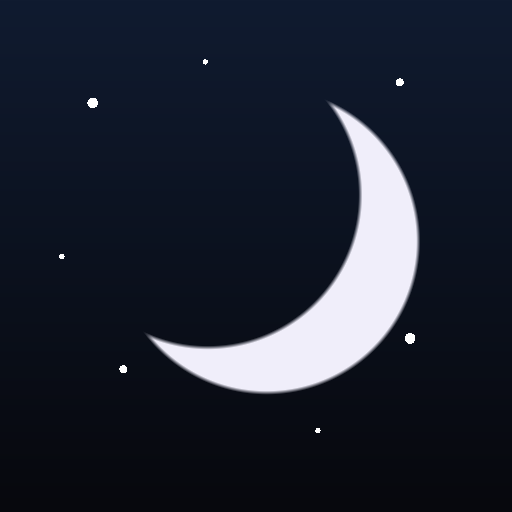
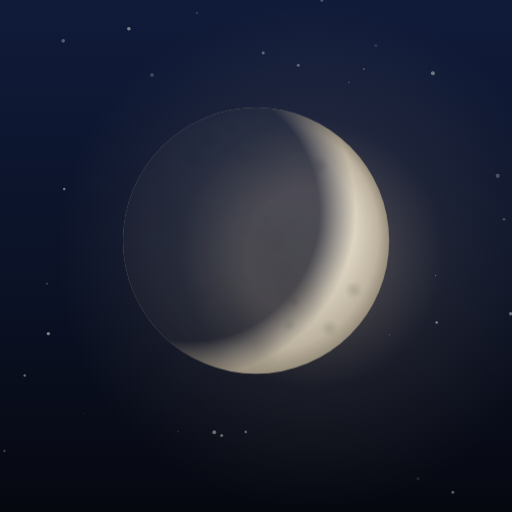
עיצוב לילה ריאליסטי: ירח אמיתי בשמיים, בטפט ובאייקונים; חיבור טלפון עמיד
- מחולל הטפט: גלקסיה שלווה — ירח סהר פוטוריאליסטי עם הילה חמה, כוכבים
  עדינים, שביל חלב מרומז, רכס הרים ומים עם נצנוץ ירח, טיפוגרפיה off-white
- ירח ריאליסטי משותף (drawRealMoon) גם בשמיים החיים ובאריח הירח
- פלטת לילה עמוקה ורגועה יותר; אייקונים מעומעמים בלילה
- אייקוני אפליקציה חדשים (192/512) עם הירח הריאליסטי

Changed region(s): [[0.2812, 0.1875, 0.8438, 0.7812], [0.2188, 0.7188, 0.25, 0.75], [0.1562, 0.1875, 0.1875, 0.2188]]

diff --git a/index.html b/index.html
@@ -1,6 +1,6 @@
-<!DOCTYPE html><html lang="he" dir="rtl"><head><meta charset="utf-8"><meta name="viewport" content="width=device-width, initial-scale=1"><title>מסע ההרגלים — פיילוט</title>
+<title>מסע ההרגלים — פיילוט</title>
 <link rel="manifest" href="./manifest.json">
-<meta name="theme-color" content="#101b30">
+<meta name="theme-color" content="#0e162c">
 <link rel="apple-touch-icon" href="./icon-192.png">
 <link rel="icon" type="image/png" href="./icon-192.png">
 <meta name="apple-mobile-web-app-capable" content="yes">
@@ -22,7 +22,7 @@
   }
   :root, :root[data-sky="night"] {
     color-scheme: dark;
-    --bg-top: #101b30; --bg-bottom: #07080d;
+    --bg-top: #0e162c; --bg-bottom: #05060b;
     --card: #1a1d26; --card-2: #21242f;
     --ink: #f1f2f7; --ink-2: #b9bdcc; --muted: #868da0;
     --hair: rgba(255,255,255,0.07);
@@ -68,20 +68,16 @@
     display: flex; flex-direction: column; justify-content: space-between; min-height: 240px;
     color: #fff; font: inherit; position: relative; overflow: hidden;
     background:
-      radial-gradient(1.3px 1.3px at 18% 22%, rgba(255,255,255,0.9) 50%, transparent 51%),
-      radial-gradient(1px 1px at 70% 12%, rgba(255,255,255,0.7) 50%, transparent 51%),
-      radial-gradient(1.5px 1.5px at 82% 40%, rgba(255,255,255,0.8) 50%, transparent 51%),
-      linear-gradient(160deg, #4f42d8 0%, #6f5ff0 55%, #8b7ff5 100%);
+      radial-gradient(1.2px 1.2px at 18% 22%, rgba(242,240,233,0.55) 50%, transparent 51%),
+      radial-gradient(1px 1px at 70% 12%, rgba(242,240,233,0.4) 50%, transparent 51%),
+      radial-gradient(1.3px 1.3px at 82% 46%, rgba(242,240,233,0.45) 50%, transparent 51%),
+      radial-gradient(1px 1px at 34% 58%, rgba(242,240,233,0.3) 50%, transparent 51%),
+      linear-gradient(165deg, #1a2650 0%, #121c3c 48%, #0b1228 100%);
     box-shadow: var(--shadow);
   }
   .moon-tile .moon {
-    position: absolute; top: 26px; left: 22px; width: 74px; height: 74px; border-radius: 50%;
-    background: radial-gradient(circle at 62% 38%, #fff, #d9d2ff 70%);
-    box-shadow: 0 0 34px rgba(255,255,255,0.45);
-  }
-  .moon-tile .moon::after {
-    content: ""; position: absolute; top: -8px; left: -14px; width: 74px; height: 74px; border-radius: 50%;
-    background: #5b4ee0;
+    position: absolute; top: 20px; left: 16px; width: 86px; height: 86px; border-radius: 50%;
+    background: radial-gradient(circle at 62% 38%, #e9e2d2, #b7ad99 70%);
   }
   .moon-tile.day {
     background:
@@ -281,7 +277,14 @@
   nav.float button { font: inherit; font-size: 0.68rem; font-weight: 600; cursor: pointer; border: none; background: none; color: var(--muted); display: flex; flex-direction: column; align-items: center; gap: 3px; padding: 8px 15px; border-radius: 999px; }
   nav.float button.on { background: var(--accent-soft); color: var(--accent); }
   nav.float svg { width: 21px; height: 21px; fill: none; stroke: currentColor; stroke-width: 1.8; stroke-linecap: round; stroke-linejoin: round; }
-</style></head><body>
+
+  /* לילה: אייקונים רגועים — פחות רוויה ובוהק לקראת שינה */
+  :root:not([data-sky="day"]) .bt-e, :root:not([data-sky="day"]) .sig .se,
+  :root:not([data-sky="day"]) .sh-emoji, :root:not([data-sky="day"]) .find .fe,
+  :root:not([data-sky="day"]) .habit .glyph, :root:not([data-sky="day"]) .bdg.won .e {
+    filter: saturate(0.72) brightness(0.92);
+  }
+</style>
 
 <canvas id="sky" aria-hidden="true"></canvas>
 <div class="wrap" dir="rtl">
@@ -1562,22 +1565,72 @@ $('#bigtext').onclick = async () => {
   toast(DATA.settings.bigText ? 'Aa טקסט מוגדל — נוח יותר לעיניים' : 'טקסט רגיל');
 };
 
-/* ---- מחולל טפט: הלמה על מסך הנעילה ---- */
+/* ---- מחולל טפט: הלמה על מסך הנעילה — לילה ריאליסטי, כהה ושקט ---- */
 function genWallpaper() {
   const W = 1080, H = 1920;
   const cv = document.createElement('canvas');
   cv.width = W; cv.height = H;
   const c = cv.getContext('2d');
+  const rnd = mulberry(2026);
+  // שמיים: כחול-לילה עמוק → אינדיגו → כמעט שחור — התאורה דועכת ככל שיורדים
   const g = c.createLinearGradient(0, 0, 0, H);
-  g.addColorStop(0, '#101b30'); g.addColorStop(0.6, '#0a0f1e'); g.addColorStop(1, '#07080d');
+  g.addColorStop(0, '#0b1226'); g.addColorStop(0.45, '#0a0e1e'); g.addColorStop(0.75, '#060810'); g.addColorStop(1, '#030407');
   c.fillStyle = g; c.fillRect(0, 0, W, H);
-  for (let i = 0; i < 140; i++) {
-    c.beginPath();
-    c.arc(((i * 137.5) % 360) / 360 * W, ((i * 97.3) % 100) / 100 * H * 0.75, 1 + (i % 3), 0, 7);
-    c.fillStyle = `rgba(255,255,255,${0.25 + (i % 6) / 10})`; c.fill();
+  // רצועת שביל-חלב אלכסונית, כמעט בלתי-מורגשת, עם אבק כוכבים עדין
+  c.save();
+  c.translate(W * 0.36, H * 0.3); c.rotate(-0.55);
+  const mw = c.createLinearGradient(0, -170, 0, 170);
+  mw.addColorStop(0, 'rgba(195,203,232,0)'); mw.addColorStop(0.5, 'rgba(200,208,235,0.05)'); mw.addColorStop(1, 'rgba(195,203,232,0)');
+  c.fillStyle = mw; c.fillRect(-W, -170, W * 2, 340);
+  for (let i = 0; i < 220; i++) {
+    c.beginPath(); c.arc((rnd() - 0.5) * W * 1.8, (rnd() - 0.5) * 260, rnd() * 0.9 + 0.3, 0, 7);
+    c.fillStyle = `rgba(225,228,240,${(rnd() * 0.09 + 0.02).toFixed(3)})`; c.fill();
   }
-  c.beginPath(); c.arc(W * 0.78, H * 0.14, 90, 0, 7); c.fillStyle = '#e8e4f5'; c.fill();
-  c.beginPath(); c.arc(W * 0.74, H * 0.125, 82, 0, 7); c.fillStyle = '#101b30'; c.fill();
+  c.restore();
+  // כוכבים דלילים בעוצמות שונות — off-white חם, בלי לבן בוהק
+  for (let i = 0; i < 135; i++) {
+    const x = rnd() * W, y = rnd() * H * 0.76;
+    const big = rnd() > 0.86;
+    const r = big ? rnd() * 1.4 + 1.2 : rnd() * 1 + 0.4;
+    const a = rnd() * 0.42 + 0.1;
+    if (big) { // לבודדים — זוהר גאוסי קטן ורך
+      const sg = c.createRadialGradient(x, y, 0, x, y, r * 3.2);
+      sg.addColorStop(0, `rgba(240,238,230,${(a * 0.45).toFixed(3)})`); sg.addColorStop(1, 'rgba(240,238,230,0)');
+      c.fillStyle = sg; c.beginPath(); c.arc(x, y, r * 3.2, 0, 7); c.fill();
+    }
+    c.beginPath(); c.arc(x, y, r, 0, 7);
+    c.fillStyle = `rgba(242,240,233,${a.toFixed(3)})`; c.fill();
+  }
+  // ירח סהר ריאליסטי — רחוק, שקט, עם הילה חמה עדינה
+  drawRealMoon(c, W * 0.75, H * 0.145, 105, { halo: 1 });
+  // רכס הרים רחוק ומים רגועים — עוגן שקט בתחתית, כמעט חושך מלא
+  const ridge = H * 0.845, waterTop = H * 0.885;
+  c.beginPath(); c.moveTo(0, waterTop);
+  for (let x = 0; x <= W; x += 18) {
+    c.lineTo(x, ridge + Math.sin(x * 0.006 + 2.1) * 26 + Math.sin(x * 0.017 + 0.7) * 12 - 18);
+  }
+  c.lineTo(W, waterTop); c.closePath();
+  c.fillStyle = '#04050a'; c.fill();
+  const wg = c.createLinearGradient(0, waterTop, 0, H);
+  wg.addColorStop(0, '#070a14'); wg.addColorStop(1, '#020304');
+  c.fillStyle = wg; c.fillRect(0, waterTop, W, H - waterTop);
+  // עמוד אור ירח על המים: זוהר רך בקו המים + פסי שמר דועכים עם ריצוד עדין
+  const rx = W * 0.75;
+  const glow = c.createRadialGradient(rx, waterTop + 4, 0, rx, waterTop + 4, 240);
+  glow.addColorStop(0, 'rgba(233,203,158,0.10)'); glow.addColorStop(1, 'rgba(233,203,158,0)');
+  c.save(); c.scale(1, 0.22); c.translate(0, (waterTop + 4) / 0.22 - (waterTop + 4));
+  c.fillStyle = glow; c.beginPath(); c.arc(rx, waterTop + 4, 240, 0, 7); c.fill();
+  c.restore();
+  for (let i = 0; i < 30; i++) {
+    const ry = waterTop + 6 + i * (H - waterTop - 24) / 30;
+    const rw = (46 + i * 5) * (0.6 + rnd() * 0.4);
+    const jx = (rnd() - 0.5) * 26;
+    const sh = c.createLinearGradient(rx + jx - rw / 2, 0, rx + jx + rw / 2, 0);
+    const aa = (0.085 * (1 - i / 32)).toFixed(3);
+    sh.addColorStop(0, 'rgba(233,203,158,0)'); sh.addColorStop(0.5, `rgba(233,203,158,${aa})`); sh.addColorStop(1, 'rgba(233,203,158,0)');
+    c.fillStyle = sh;
+    c.fillRect(rx + jx - rw / 2, ry, rw, 1.6 + rnd() * 1.2);
+  }
   const wrapText = (txt, y, size, weight, color, lh) => {
     c.font = `${weight} ${size}px system-ui, sans-serif`;
     c.fillStyle = color; c.textAlign = 'center'; c.direction = 'rtl';
@@ -1590,12 +1643,15 @@ function genWallpaper() {
     c.fillText(line, W / 2, yy);
     return yy + lh;
   };
-  c.fillStyle = 'rgba(139,127,245,0.95)';
+  // טיפוגרפיה: היררכיה נקייה, off-white חם, קונטרסט רך
+  c.shadowColor = 'rgba(0,0,0,0.45)'; c.shadowBlur = 14;
+  c.fillStyle = 'rgba(207,188,160,0.88)';
   c.font = '600 34px system-ui'; c.textAlign = 'center';
   c.fillText('ה ל מ ה   ש ל י', W / 2, H * 0.4);
-  let y = wrapText(myWhy() || 'אני אחראי על ההרגלים שלי', H * 0.46, 72, '800', '#f1f2f7', 96);
+  let y = wrapText(myWhy() || 'אני אחראי על ההרגלים שלי', H * 0.46, 72, '700', '#f2ead9', 96);
   const aff = AFFIRMATIONS[Math.floor(Date.now() / 86400000) % AFFIRMATIONS.length];
-  wrapText(aff, y + 80, 44, '300', 'rgba(185,189,204,0.9)', 62);
+  wrapText(aff, y + 80, 44, '300', 'rgba(199,194,183,0.85)', 62);
+  c.shadowBlur = 0;
   cv.toBlob(b => {
     const a = document.createElement('a');
     a.href = URL.createObjectURL(b);
@@ -1892,13 +1948,72 @@ function sunTimes(d) {
 const hex2rgb = h => [parseInt(h.slice(1, 3), 16), parseInt(h.slice(3, 5), 16), parseInt(h.slice(5, 7), 16)];
 const mixc = (a, b, t) => a.map((v, i) => Math.round(v + (b[i] - v) * t));
 const cssc = c => `rgb(${c[0]},${c[1]},${c[2]})`;
-const P_NIGHT = ['#070b1a', '#0d1526', '#16223d', '#050912'].map(hex2rgb);
+const P_NIGHT = ['#081020', '#0d1730', '#182545', '#050810'].map(hex2rgb);
 const P_DAWN = ['#1c2a52', '#5a5488', '#e09a6e', '#2a3a5e'].map(hex2rgb);
 const P_GOLD = ['#3a6ea8', '#e8a25e', '#f7c877', '#2a5580'].map(hex2rgb);
 const P_DAY = ['#3f97e6', '#7fc2f2', '#d8efff', '#1f6fa8'].map(hex2rgb);
 const P_SUNSET = ['#33305e', '#c05a60', '#f5a058', '#2c3a66'].map(hex2rgb);
 const P_DUSK = ['#121638', '#2e2a58', '#71486e', '#0e1530'].map(hex2rgb);
 const SKY_STARS = Array.from({ length: 110 }, (_, i) => ({ x: ((i * 137.508) % 360) / 360, y: ((i * 97.31) % 100) / 100 * 0.72, r: 0.6 + ((i * 7) % 10) / 9, tw: (i % 7) / 7, order: ((i * 61) % 110) / 110 }));
+
+/* ---- ירח ריאליסטי משותף: שמיים, אריח הירח והטפט ---- */
+function mulberry(seed) { return () => { seed |= 0; seed = seed + 0x6D2B79F5 | 0; let t = Math.imul(seed ^ seed >>> 15, 1 | seed); t = t + Math.imul(t ^ t >>> 7, 61 | t) ^ t; return ((t ^ t >>> 14) >>> 0) / 4294967296; }; }
+function drawRealMoon(ctx, x, y, r, opts = {}) {
+  const { halo = 1, alpha = 1 } = opts;
+  const haloR = opts.haloR || r * 5;
+  ctx.save();
+  ctx.globalAlpha = alpha;
+  // הילה חמה ורכה מאוד סביב הצד המואר, מתפזרת בהדרגה — בלי בוהק
+  if (halo > 0) {
+    const hx = x + r * 0.42, hy = y + r * 0.1;
+    const hg = ctx.createRadialGradient(hx, hy, r * 0.5, hx, hy, haloR);
+    hg.addColorStop(0, `rgba(255,226,188,${(0.22 * halo).toFixed(3)})`);
+    hg.addColorStop(0.35, `rgba(255,222,185,${(0.07 * halo).toFixed(3)})`);
+    hg.addColorStop(1, 'rgba(255,220,180,0)');
+    ctx.fillStyle = hg;
+    ctx.beginPath(); ctx.arc(hx, hy, haloR, 0, 7); ctx.fill();
+  }
+  // הירח נבנה על קנבס-צד עם שקיפות אמיתית — כך הצד החשוך מתמזג עם כל רקע
+  const pad = 2, S = Math.ceil(r * 2 + pad * 2);
+  const oc = document.createElement('canvas'); oc.width = S; oc.height = S;
+  const o = oc.getContext('2d');
+  const ox = r + pad, oy = r + pad;
+  o.beginPath(); o.arc(ox, oy, r, 0, 7); o.clip();
+  // גוף: שנהב-אפור חם עם החשכת שפה טבעית, מואר מימין
+  const body = o.createRadialGradient(ox + r * 0.3, oy - r * 0.25, r * 0.15, ox, oy, r);
+  body.addColorStop(0, '#ece5d6'); body.addColorStop(0.55, '#dcd3c0'); body.addColorStop(0.85, '#bdb3a0'); body.addColorStop(1, '#978d7b');
+  o.fillStyle = body; o.fillRect(0, 0, S, S);
+  // ימות ומכתשים — זרע קבוע, כדי שזה תמיד אותו ירח
+  const rnd = mulberry(7);
+  for (let i = 0; i < 30; i++) {
+    const a = rnd() * Math.PI * 2, d = Math.sqrt(rnd()) * r * 0.86;
+    const cx = ox + Math.cos(a) * d, cy = oy + Math.sin(a) * d;
+    const cr = (i < 7 ? 0.15 + rnd() * 0.2 : 0.03 + rnd() * 0.07) * r;
+    const cg = o.createRadialGradient(cx, cy, cr * 0.15, cx, cy, cr);
+    cg.addColorStop(0, `rgba(96,88,74,${(0.14 + rnd() * 0.1).toFixed(3)})`);
+    cg.addColorStop(1, 'rgba(96,88,74,0)');
+    o.fillStyle = cg;
+    o.beginPath(); o.arc(cx, cy, cr, 0, 7); o.fill();
+  }
+  // מחיקת הצד החשוך לשקיפות — טרמינטור רך, נשאר שמץ earthshine
+  o.globalCompositeOperation = 'destination-out';
+  const sx = ox - r * 0.5, sy = oy - r * 0.22, sr = r * 1.25;
+  const sg = o.createRadialGradient(sx, sy, sr * 0.78, sx, sy, sr);
+  sg.addColorStop(0, 'rgba(0,0,0,0.94)');
+  sg.addColorStop(1, 'rgba(0,0,0,0)');
+  o.fillStyle = sg;
+  o.beginPath(); o.arc(sx, sy, sr, 0, 7); o.fill();
+  ctx.drawImage(oc, x - ox, y - oy);
+  ctx.restore();
+}
+let MOON_TILE_URL = null;
+function tileMoonURL() {
+  if (MOON_TILE_URL) return MOON_TILE_URL;
+  const s = 148, cv = document.createElement('canvas');
+  cv.width = s; cv.height = s;
+  drawRealMoon(cv.getContext('2d'), s * 0.52, s * 0.5, s * 0.3, { halo: 0.9, haloR: s * 0.48 });
+  return MOON_TILE_URL = cv.toDataURL();
+}
 function skyPalette(nowMin, sr, ss) {
   const keys = [[0, P_NIGHT], [sr - 70, P_NIGHT], [sr - 25, P_DAWN], [sr + 20, P_GOLD], [sr + 90, P_DAY], [ss - 90, P_DAY], [ss - 25, P_SUNSET], [ss + 30, P_DUSK], [ss + 80, P_NIGHT], [1441, P_NIGHT]];
   for (let i = 0; i < keys.length - 1; i++) {
@@ -2021,19 +2136,19 @@ function drawSky() {
     ctx.restore();
     const nightProg = nowMin > ss ? (nowMin - ss) / (1440 - ss + sr) : (nowMin + 1440 - ss) / (1440 - ss + sr);
     for (const s of SKY_STARS) {
-      const alpha = Math.max(0, Math.min(1, (nf - s.order) * 3)) * (0.45 + 0.55 * s.tw);
+      // עדין ודליל: בלי לבן בוהק — תקרת בהירות נמוכה, גוון off-white חם
+      const alpha = Math.max(0, Math.min(1, (nf - s.order) * 3)) * (0.3 + 0.42 * s.tw);
       if (alpha <= 0) continue;
       const y = (s.y - nightProg * 0.1) * H;
       if (y < 0 || y > horizonY - 8) continue;
       ctx.beginPath(); ctx.arc(s.x * W, y, s.r, 0, 7);
-      ctx.fillStyle = `rgba(255,255,255,${alpha.toFixed(3)})`; ctx.fill();
+      ctx.fillStyle = `rgba(242,240,233,${alpha.toFixed(3)})`; ctx.fill();
     }
-    const mx = W * 0.82, my = H * 0.14;
-    ctx.globalAlpha = nf * 0.9;
-    ctx.beginPath(); ctx.arc(mx, my, 20, 0, 7); ctx.fillStyle = '#e8e4f5'; ctx.fill();
-    ctx.beginPath(); ctx.arc(mx - 9, my - 5, 18, 0, 7); ctx.fillStyle = cssc(top); ctx.fill();
-    ctx.globalAlpha = 1;
+    drawRealMoon(ctx, W * 0.82, H * 0.14, 24, { alpha: nf, halo: 0.85 * nf });
   }
+  // אריח הירח: בלילה — הירח הריאליסטי; ביום — השמש מה-CSS
+  const moonEl = document.querySelector('#moon-tile .moon');
+  if (moonEl) moonEl.style.background = isDay ? '' : `url(${tileMoonURL()}) center/contain no-repeat`;
 }
 let LAST_ISDAY = false;
 (function skyLoop() {
@@ -2071,4 +2186,3 @@ addEventListener('appinstalled', () => { $('#installbtn').hidden = true; toast('
 
 refresh();
 </script>
-</body></html>
